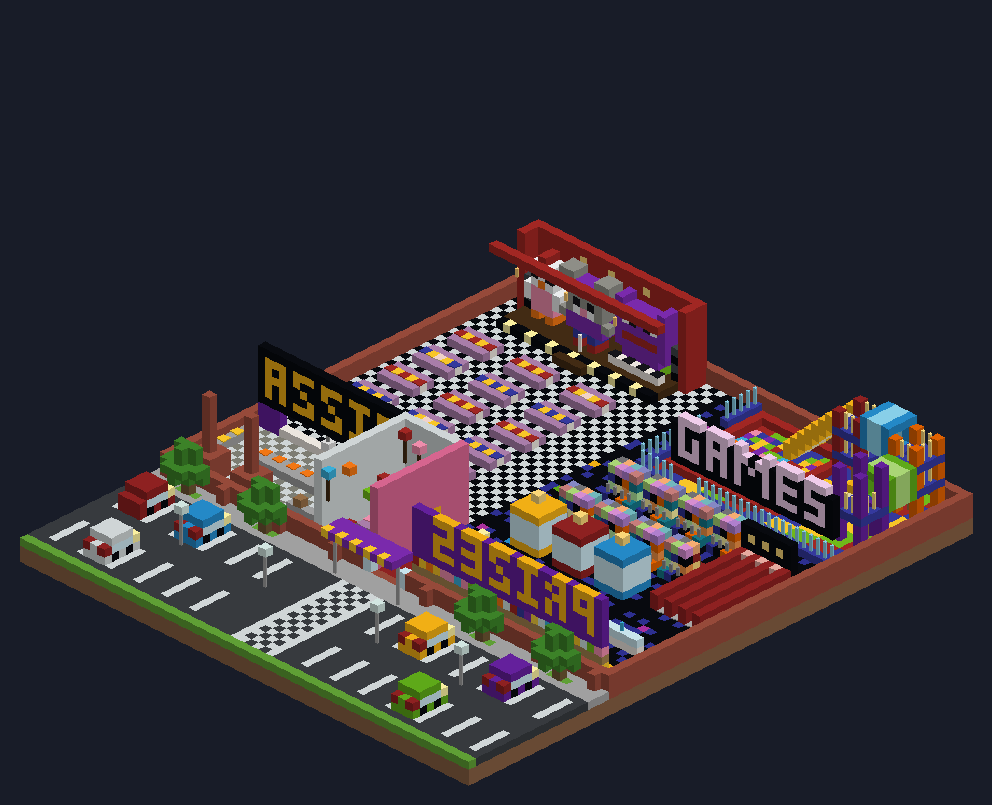
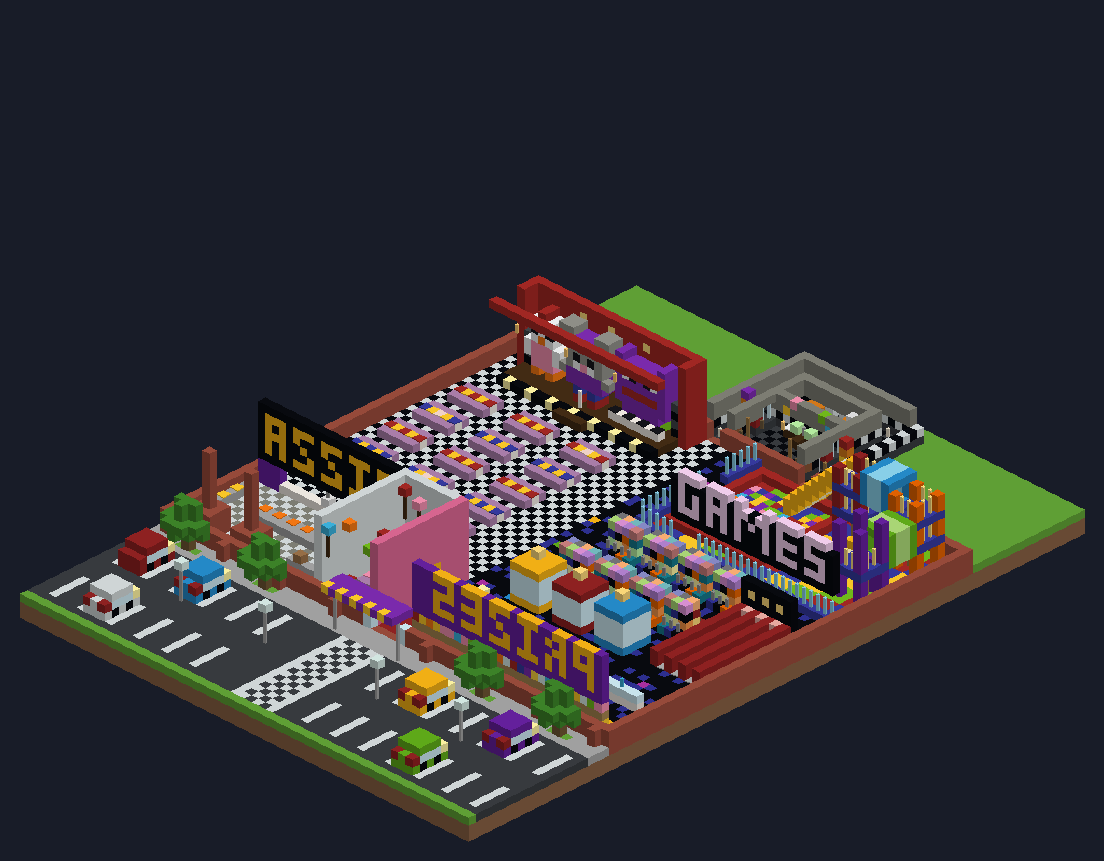
Add security office with two doors and vents to the Chuck E. Cheese map
A back-of-house section behind the stage, reached by a hallway from the
dining room and one from the play zone. The office has an iron door on
each side held open by a lever (flip it to shut the door), a light switch
for a lamp in each hall, windows with an animatronic lurking outside, a
desk with camera screens, and two vents: the left one comes out on the
stage behind the band, the right one in the play zone. A parts & service
room holds spare costumes.

The grid now extends north to fit it, and the pack version is bumped to
1.1.0 so Minecraft replaces the old import.

Claude-Session: https://claude.ai/code/session_01Khotg7LGENczRzMWywujzV

diff --git a/minecraft/chuck-e-cheese/build_map.py b/minecraft/chuck-e-cheese/build_map.py
@@ -116,6 +116,24 @@ for _kind, _rgb in (("purpur", (169, 125, 169)), ("dark_oak", (66, 43, 20)),
     for _d, _v in STAIR_DIR.items():
         reg(f"stairs:{_kind}:{_d}", f"minecraft:{_kind}_stairs",
             {"weirdo_direction": _v, "upside_down_bit": False}, _rgb)
+# iron doors (open; a lever keeps them powered): direction 0 east, 2 west
+for _d in (0, 2):
+    for _half in ("lower", "upper"):
+        reg(f"iron_door:{_d}:{_half}", "minecraft:iron_door",
+            {"direction": _d, "door_hinge_bit": False, "open_bit": True, "upper_block_bit": _half == "upper"},
+            (200, 200, 205), "thin")
+# wall levers: lever_direction = the face of the support block it sticks out of
+for _d in ("east", "west"):
+    reg(f"wall_lever:{_d}:on", "minecraft:lever", {"lever_direction": _d, "open_bit": True}, (110, 90, 60), "thin")
+    reg(f"wall_lever:{_d}:off", "minecraft:lever", {"lever_direction": _d, "open_bit": False}, (110, 90, 60),
+        "thin")
+# carved pumpkin faces: direction 0 south, 1 west, 2 north, 3 east
+for _d, _v in {"south": 0, "west": 1, "north": 2, "east": 3}.items():
+    reg(f"pumpkin_face:{_d}", "minecraft:carved_pumpkin", {"direction": _v}, (210, 120, 25))
+reg("redstone_lamp", "minecraft:redstone_lamp", rgb=(130, 80, 50))
+reg("crying_obsidian", "minecraft:crying_obsidian", rgb=(50, 10, 90))
+reg("candle:plain", "minecraft:candle", {"candles": 0, "lit": True}, (230, 220, 200), "thin")
+
 # ladders: facing_direction = side the ladder faces, away from its wall
 for _d, _v in {"north": 2, "south": 3, "west": 4, "east": 5}.items():
     reg(f"ladder:{_d}", "minecraft:ladder", {"facing_direction": _v}, (150, 115, 65), "thin")
@@ -125,7 +143,8 @@ for _d, _v in {"north": 2, "south": 3, "west": 4, "east": 5}.items():
 # voxel grid
 # ---------------------------------------------------------------------------
 
-W, H, D = 64, 36, 72          # x (east), y (up), z (south)
+W, H, D = 64, 36, 72          # x (east), y (up), z (south edge, exclusive)
+ZN = -16                      # north edge: the back-of-house annex sits at negative z
 GY = 2                        # ground / floor block layer
 FY = 3                        # first walkable layer (feet)
 CY = 13                       # ceiling + roof layer
@@ -134,13 +153,13 @@ BZ1 = 51                      # front wall of the building (z); parking lot is s
 
 class Grid:
     def __init__(self):
-        self.cells = ["air"] * (W * H * D)
+        self.cells = ["air"] * (W * H * (D - ZN))
 
     def _i(self, x, y, z):
-        return (y * D + z) * W + x
+        return (y * (D - ZN) + (z - ZN)) * W + x
 
     def inside(self, x, y, z):
-        return 0 <= x < W and 0 <= y < H and 0 <= z < D
+        return 0 <= x < W and 0 <= y < H and ZN <= z < D
 
     def set(self, x, y, z, key):
         if key not in PALETTE:
@@ -253,8 +272,8 @@ MOUSE_LEGEND = {"E": "wool:gray", "P": "wool:pink", "C": "wool:purple", "G": "wo
 # ---------------------------------------------------------------------------
 
 def build_ground():
-    g.fill(0, 0, 0, W - 1, 1, D - 1, "dirt")
-    g.fill(0, GY, 0, W - 1, GY, D - 1, "grass")
+    g.fill(0, 0, ZN, W - 1, 1, D - 1, "dirt")
+    g.fill(0, GY, ZN, W - 1, GY, D - 1, "grass")
     # sidewalk along the front, curb, then asphalt
     g.fill(0, GY, BZ1 + 1, W - 1, GY, BZ1 + 3, "smooth_stone")
     g.fill(0, GY, BZ1 + 4, W - 1, GY, D - 2, "concrete:gray")
@@ -879,6 +898,126 @@ def build_aisle():
         g.set(34, FY + 1, z, "froglight_yellow")
 
 
+# ---- back of house: security office with two doors, and vents ----------------
+#   west hall   x 27..28, z -13..-1   (opens into the dining room)
+#   east hall   x 40..41, z -13..-1   (opens into the play zone)
+#   back hall   x 27..41, z -13..-12
+#   office      x 30..38, z -6..-1    iron doors in its west (x 29) and east (x 39) walls
+#   parts room  x 30..38, z -10..-8
+# Rooms are 4 tall under a ceiling at y 7; the vents run above it at y 8..9.
+
+AX0, AX1, AZ0 = 26, 42, -14    # annex outer walls; its south side is the building's back wall
+ACY = FY + 4                   # annex ceiling
+VY = ACY + 1                   # vent floor level the player walks on inside the ducts
+
+
+def annex_wall(x, y, z):
+    if y <= FY:
+        return "concrete:gray"
+    if y == FY + 1:
+        return "concrete:black" if (x + z) % 2 else "concrete:white"    # checkered stripe
+    return "concrete:light_gray"
+
+
+def vent(path, shell_from, shell_to):
+    """carve a 1 wide, 2 tall duct through the cells in `path` (x, z at VY),
+    and wrap the part between x = shell_from..shell_to (outside the annex) in metal"""
+    for (x, z) in path:
+        g.set(x, VY, z, "air")
+        g.set(x, VY + 1, z, "air")
+    for x in range(min(shell_from, shell_to), max(shell_from, shell_to) + 1):
+        g.set(x, VY - 1, -1, "concrete:light_gray")
+        g.set(x, VY + 2, -1, "concrete:light_gray")
+        g.set(x, VY, -2, "iron_bars" if x % 4 == 0 else "concrete:light_gray")   # grates let light in
+        g.set(x, VY + 1, -2, "concrete:light_gray")
+
+
+def build_office():
+    # solid block from floor to roof, then carve the rooms out of it
+    for z in range(AZ0, 0):
+        for x in range(AX0, AX1 + 1):
+            g.set(x, GY, z, "concrete:black" if (x + z) % 2 else "concrete:gray")
+            for y in range(FY, ACY):
+                g.set(x, y, z, annex_wall(x, y, z))
+            for y in range(ACY, ACY + 4):
+                g.set(x, y, z, "smooth_stone")
+    for (x0, z0, x1, z1) in ((27, -13, 28, -1), (40, -13, 41, -1), (27, -13, 41, -12),
+                             (30, -6, 38, -1), (30, -10, 38, -8)):
+        g.fill(x0, FY, z0, x1, ACY - 1, z1, "air")
+    g.fill(27, FY, 0, 28, FY + 2, 0, "air")        # west hall <- dining room
+    g.fill(40, FY, 0, 41, FY + 2, 0, "air")        # east hall <- play zone
+    g.fill(34, FY, -11, 34, FY + 1, -11, "air")    # parts room door off the back hall
+
+    # the two doors. Each lever sits on a red panel next to its door and keeps
+    # the door powered (open); flip it to slam the door shut. A second lever
+    # turns on the lamp in the wall that lights up the hall outside.
+    for (wall, inside, door_dir, lever_face) in ((29, 30, 0, "east"), (39, 38, 2, "west")):
+        g.set(wall, FY, -3, f"iron_door:{door_dir}:lower")
+        g.set(wall, FY + 1, -3, f"iron_door:{door_dir}:upper")
+        g.set(wall, FY + 1, -4, "concrete:red")
+        g.set(inside, FY + 1, -4, f"wall_lever:{lever_face}:on")
+        g.set(wall, FY + 1, -1, "redstone_lamp")
+        g.set(inside, FY + 1, -1, f"wall_lever:{lever_face}:off")
+        g.fill(wall, FY + 1, -6, wall, FY + 2, -5, "glass_pane")         # window onto the hall
+
+    # desk with the camera monitors, desk fan and a cupcake
+    g.fill(32, FY, -6, 36, FY, -6, "dark_oak_planks")
+    g.set(32, FY + 1, -6, "carpet:white")
+    g.set(33, FY + 1, -6, "froglight_green")
+    g.set(34, FY + 1, -6, "iron_bars")
+    g.set(35, FY + 1, -6, "froglight_green")
+    g.set(36, FY + 1, -6, "candle_cake")
+    g.set(34, FY, -5, "stairs:dark_oak:south")       # the guard's chair, facing the desk
+    g.set(34, ACY - 1, -3, "lantern")
+    for (x, y, color) in ((31, FY + 2, "yellow"), (32, FY + 3, "pink"), (37, FY + 2, "light_blue"),
+                          (36, FY + 3, "lime")):
+        g.set(x, y, -7, f"wool:{color}")              # kids' drawings on the wall
+
+    # animatronics lurking outside the windows: purple bunny (west), chicken (east)
+    g.set(27, FY, -5, "wool:purple")
+    g.set(27, FY + 1, -5, "wool:purple")
+    g.set(27, FY + 2, -5, "pumpkin_face:east")
+    g.set(27, FY + 3, -5, "wool:purple")
+    g.set(41, FY, -5, "wool:orange")
+    g.set(41, FY + 1, -5, "wool:yellow")
+    g.set(41, FY + 2, -5, "pumpkin_face:west")
+    g.set(41, FY + 3, -5, "wool:red")
+
+    # parts & service: spare costumes, an endoskeleton, tools
+    for (x, color) in ((31, "light_gray"), (32, "purple"), (36, "yellow")):
+        g.set(x, FY, -10, f"wool:{color}")
+        g.set(x, FY + 1, -10, "pumpkin_face:south")
+    g.fill(37, FY, -10, 37, FY + 1, -10, "iron_bars")
+    g.set(37, FY + 2, -10, "iron_block")
+    g.set(38, FY, -8, "crafting_table")
+    g.set(30, FY, -8, "candle:white")
+
+    # dim candles keep the halls spooky but too bright for mobs to spawn
+    for z in (-1, -4, -7, -10, -13):
+        g.set(27, FY, z, "candle:plain")
+        g.set(41, FY, z, "candle:plain")
+    for x in (30, 33, 36, 39):
+        g.set(x, FY, -13, "candle:plain")
+
+    # left vent: ladder up from the office, over the west hall, along the back
+    # of the building and out through the curtain onto the stage behind the band
+    vent([(x, -1) for x in range(14, 32)] + [(14, 0), (14, 1)], 13, AX0 - 1)
+    for y in range(FY, VY + 1):
+        g.set(31, y, -1, "ladder:north")
+    g.fill(13, VY, -1, 13, VY + 1, -1, "concrete:light_gray")     # end cap
+    for y in range(FY + 1, VY):
+        g.set(14, y, 2, "ladder:south")
+    # right vent: over the east hall and down into the play zone
+    vent([(x, -1) for x in range(37, 45)] + [(44, 0)], AX1 + 1, 45)
+    for y in range(FY, VY + 1):
+        g.set(37, y, -1, "ladder:north")
+    g.fill(45, VY, -1, 45, VY + 1, -1, "concrete:light_gray")
+    for y in range(FY, VY):
+        g.set(44, y, 1, "ladder:south")
+    for (x, z) in ((15, -1), (20, -1), (25, -1), (29, -1), (40, -1), (44, -1)):
+        g.set(x, VY + 2, z, "crying_obsidian")                     # glowing vent lights
+
+
 def build_all():
     build_ground()
     build_lot()
@@ -893,6 +1032,7 @@ def build_all():
     build_party_room()
     build_prize_counter()
     build_aisle()
+    build_office()
     build_sign()
 
 
@@ -994,8 +1134,9 @@ def mcstructure(x0, z0, sx, sz):
 
 PACK_UUID = "6b0f6d1e-3c1a-4d8e-9f3b-2a7c5e9d1c01"
 MODULE_UUID = "a4e2c7b9-58d3-4f61-8b2e-0c9d7f3a6e02"
+PACK_VERSION = [1, 1, 0]       # bump on every release so Minecraft replaces the old import
 PIECE = 64                      # Bedrock structures stay within 64 x 64 blocks
-ANCHOR = (32, FY, 40)          # grid cell the player stands in when running the function
+ANCHOR = (32, FY, 28)          # grid cell the player stands in when running the function
 VIEW_SPOT = (32, FY, 69)       # where the player is sent afterwards: the parking lot
 
 
@@ -1019,9 +1160,9 @@ def build_pack():
     ]
     ax, ay, az = ANCHOR
     for px in range(0, W, PIECE):
-        for pz in range(0, D, PIECE):
+        for pz in range(ZN, D, PIECE):
             sx, sz = min(PIECE, W - px), min(PIECE, D - pz)
-            name = f"part_{px // PIECE}_{pz // PIECE}"
+            name = f"part_{px // PIECE}_{(pz - ZN) // PIECE}"
             files[f"structures/cec/{name}.mcstructure"] = mcstructure(px, pz, sx, sz)
             commands.append(f"structure load cec:{name} ~{px - ax} ~{-ay} ~{pz - az}")
     vx, vy, vz = VIEW_SPOT
@@ -1038,10 +1179,10 @@ def build_pack():
             "name": "Chuck E. Cheese Map",
             "description": "Fan-made pizza and arcade party place. Run /function chuckecheese",
             "uuid": PACK_UUID,
-            "version": [1, 0, 0],
+            "version": PACK_VERSION,
             "min_engine_version": [1, 20, 0],
         },
-        "modules": [{"type": "data", "uuid": MODULE_UUID, "version": [1, 0, 0]}],
+        "modules": [{"type": "data", "uuid": MODULE_UUID, "version": PACK_VERSION}],
     }
     files["manifest.json"] = json.dumps(manifest, indent=2).encode()
     icon = io.BytesIO()
@@ -1073,6 +1214,8 @@ def render_iso(path, cut=False, scale=7):
     def hidden(x, y, z):
         if not cut:
             return False
+        if z < 0:   # annex: drop its ceiling, vents and roof, and the east wall facing the camera
+            return y >= ACY or (y > FY + 1 and x == AX1)
         in_building = z <= BZ1 + 1
         return in_building and (y >= CY or (y > FY + 1 and (z >= BZ1 or x == W - 1 or x == 0 or z == 0)))
 
@@ -1080,17 +1223,17 @@ def render_iso(path, cut=False, scale=7):
         k = g.get(x, y, z)
         return k != "air" and PALETTE[k][4] == "cube" and not hidden(x, y, z)
 
-    ox = D * a + 20
+    ox = (D - ZN) * a + 20
     oy = H * c + 20
-    img = Image.new("RGB", (int((W + D) * a + 40), int((W + D) * b + H * c + 40)), (24, 28, 40))
+    img = Image.new("RGB", (int((W + D - ZN) * a + 40), int((W + D - ZN) * b + H * c + 40)), (24, 28, 40))
     dr = ImageDraw.Draw(img)
 
     def proj(x, y, z):
-        return (ox + (x - z) * a, oy + (x + z) * b - y * c)
+        return (ox + (x - (z - ZN)) * a, oy + (x + (z - ZN)) * b - y * c)
 
     order = []
     for y in range(H):
-        for z in range(D):
+        for z in range(ZN, D):
             for x in range(W):
                 k = g.get(x, y, z)
                 if k == "air" or hidden(x, y, z):
@@ -1115,16 +1258,20 @@ def render_iso(path, cut=False, scale=7):
 
 def render_plan(path, scale=10):
     """top-down plan: highest block at or below the given layer"""
-    img = Image.new("RGB", (W * scale, D * scale), (0, 0, 0))
+    img = Image.new("RGB", (W * scale, (D - ZN) * scale), (0, 0, 0))
     dr = ImageDraw.Draw(img)
-    for z in range(D):
+    for z in range(ZN, D):
         for x in range(W):
-            ymax = CY - 1 if z <= BZ1 else H - 1
+            if z < 0:
+                ymax = ACY - 1 if AX0 <= x <= AX1 and z >= AZ0 else H - 1
+            else:
+                ymax = CY - 1 if z <= BZ1 else H - 1
             for y in range(ymax, -1, -1):
                 k = g.get(x, y, z)
                 if k != "air":
                     f = 0.55 + 0.45 * (y / (CY - 1))
-                    dr.rectangle([x * scale, z * scale, (x + 1) * scale - 1, (z + 1) * scale - 1],
+                    zz = z - ZN
+                    dr.rectangle([x * scale, zz * scale, (x + 1) * scale - 1, (zz + 1) * scale - 1],
                                  fill=_shade(PALETTE[k][3], min(1.1, f)))
                     break
     img.save(path)

diff --git a/minecraft/chuck-e-cheese/README.md b/minecraft/chuck-e-cheese/README.md
@@ -20,6 +20,17 @@ Bedrock Edition (phone, tablet, Windows) with one command.
 - **Prize counter** with a wall of prizes and a giant teddy bear
 - **Birthday party room** with cakes, balloons and presents
 - **Kitchen** with brick pizza ovens and the PIZZA menu over the order window
+- **Security office** behind the stage, in the back-of-house area. Get there
+  through the hallway next to the stage or the one at the back of the play zone:
+  - two iron doors, left and right. Flip the lever on the red panel next to a
+    door to slam it shut, and flip it again to open it
+  - a light switch by each door that turns on a lamp so you can see who's in
+    the hallway. Look out the windows: a purple bunny waits in one hall and a
+    chicken in the other
+  - a desk with two camera screens, a desk fan and a cupcake
+  - two vents: climb the ladders in the office corners. The left vent comes
+    out on the stage behind the band, the right one in the play zone
+  - a Parts & Service room with spare costumes and an endoskeleton
 
 ## How to install
 
@@ -45,6 +56,10 @@ Bedrock Edition (phone, tablet, Windows) with one command.
 
 Turning on cheats or add-ons switches off achievements for that world (that's
 normal for any add-on).
+
+**Updating:** open the new `ChuckECheese.mcpack` the same way and it replaces
+the old one. If an old world doesn't pick up the update, make a new flat world
+with the pack turned on.
 
 ## Rebuilding
 
